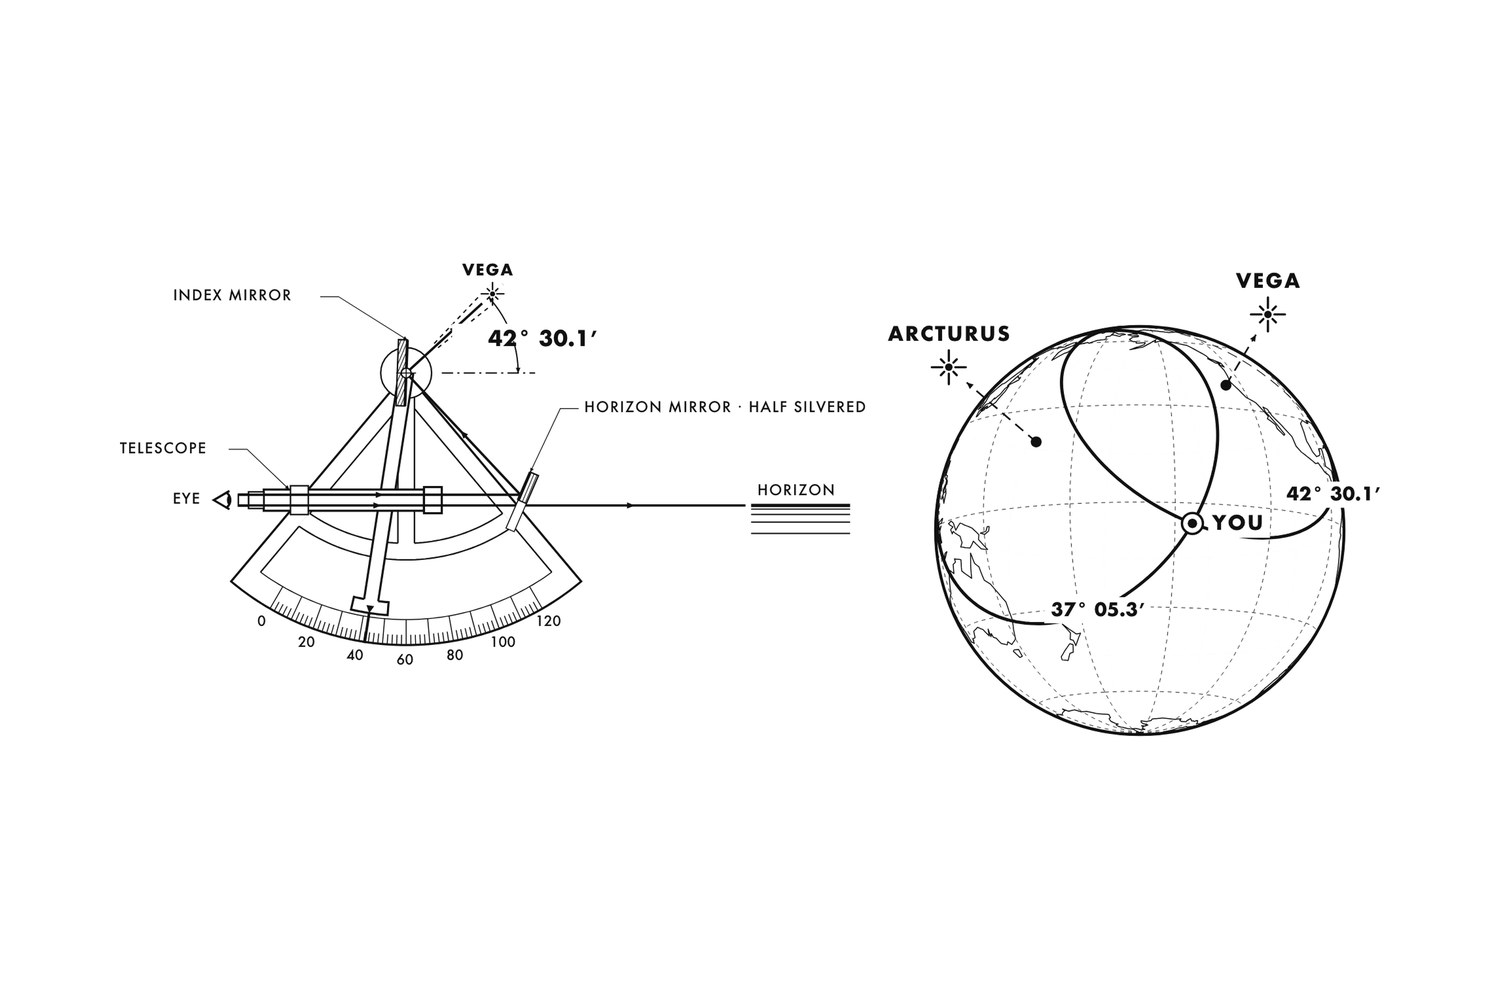
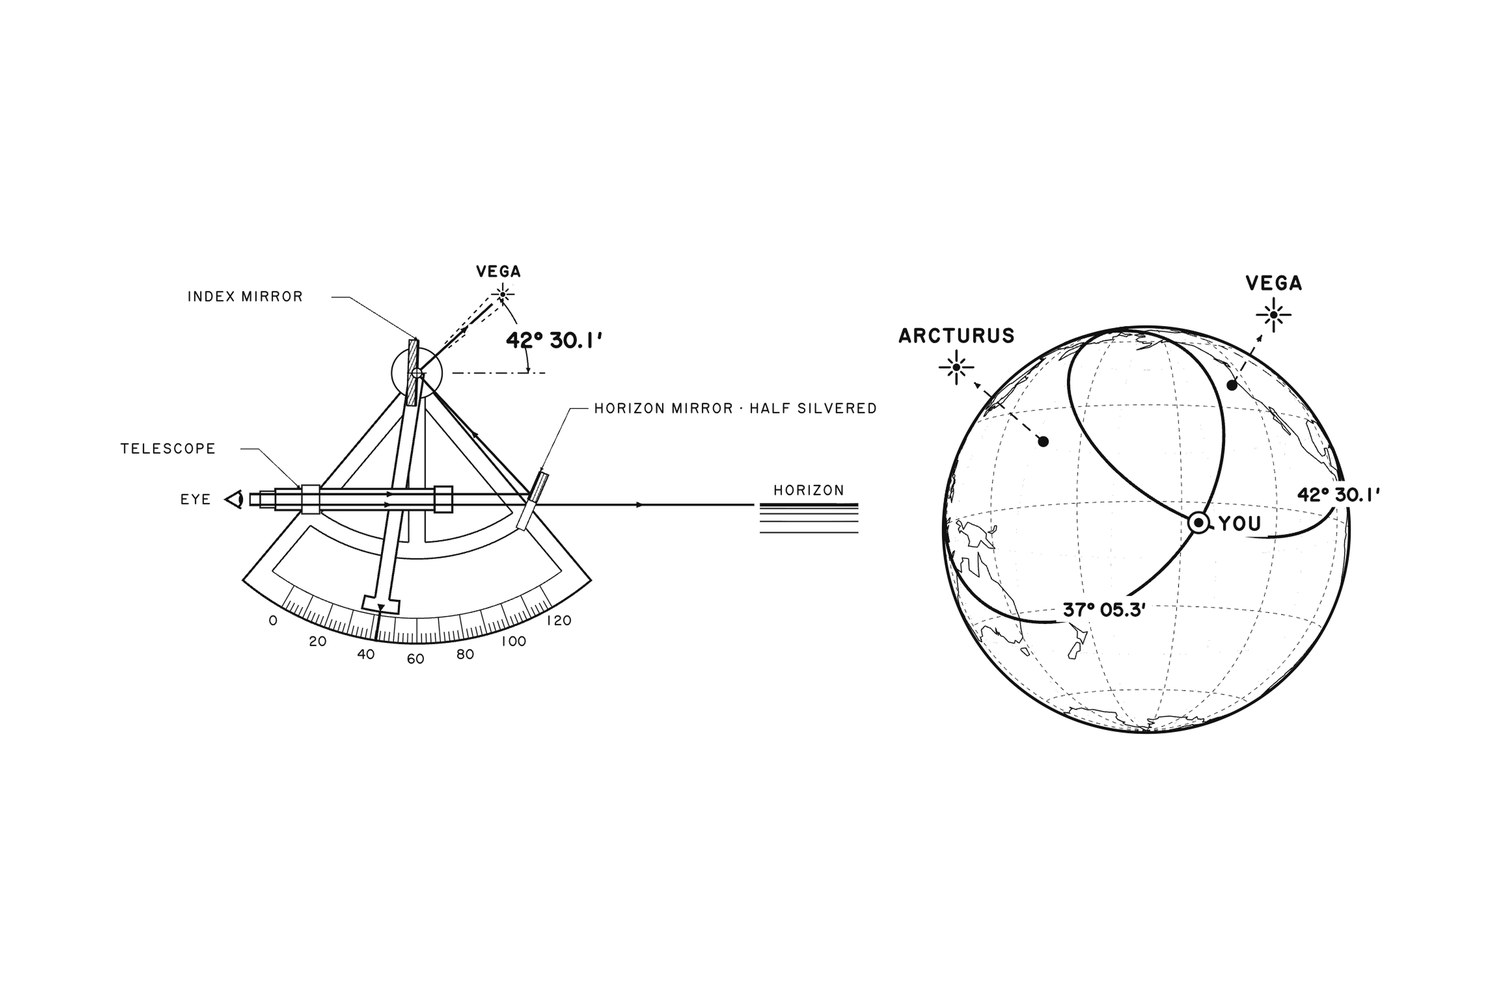
sextant: draw figures at up to 3x pixel density, reletter the og card and thumbnail in Routed Gothic

diff --git a/10-projects/sextant/app.js b/10-projects/sextant/app.js
@@ -862,7 +862,7 @@ function createDemo(figId, {
     const chrome = (controls?.offsetHeight || 0) + 56;
     const availH = Math.max(260, Math.round(window.innerHeight * 0.94) - chrome);
     const cssH = Math.min(activeMaxH, Math.round(cssW / activeAspect), availH);
-    d.dpr = Math.min(2, window.devicePixelRatio || 1);
+    d.dpr = pixelRatio();
     d.w = cssW; d.h = cssH;
     canvas.style.height = cssH + 'px';
     canvas.width = Math.round(cssW * d.dpr);
@@ -875,6 +875,10 @@ function createDemo(figId, {
   fit();
   return d;
 }
+
+/* Backing-store pixels per CSS pixel. Phones are commonly 3x, and browser
+   zoom raises the ratio too, so the cap is there only to bound memory. */
+function pixelRatio() { return Math.min(3, window.devicePixelRatio || 1); }
 
 const allFits = [];
 window.addEventListener('resize', () => allFits.forEach(f => f()));
@@ -979,7 +983,7 @@ function plateCaptionDetail(ctx) {
   const phone = window.innerWidth <= 720;
   const cw = phone ? 132 : Math.min(cap.clientWidth || 160, 170);
   const ch = Math.round(cw * (phone ? 1.12 : 1.02));
-  const dpr = Math.min(2, window.devicePixelRatio || 1);
+  const dpr = pixelRatio();
   if (cv.width !== Math.round(cw * dpr) || cv.height !== Math.round(ch * dpr)) {
     cv.width = Math.round(cw * dpr);
     cv.height = Math.round(ch * dpr);
